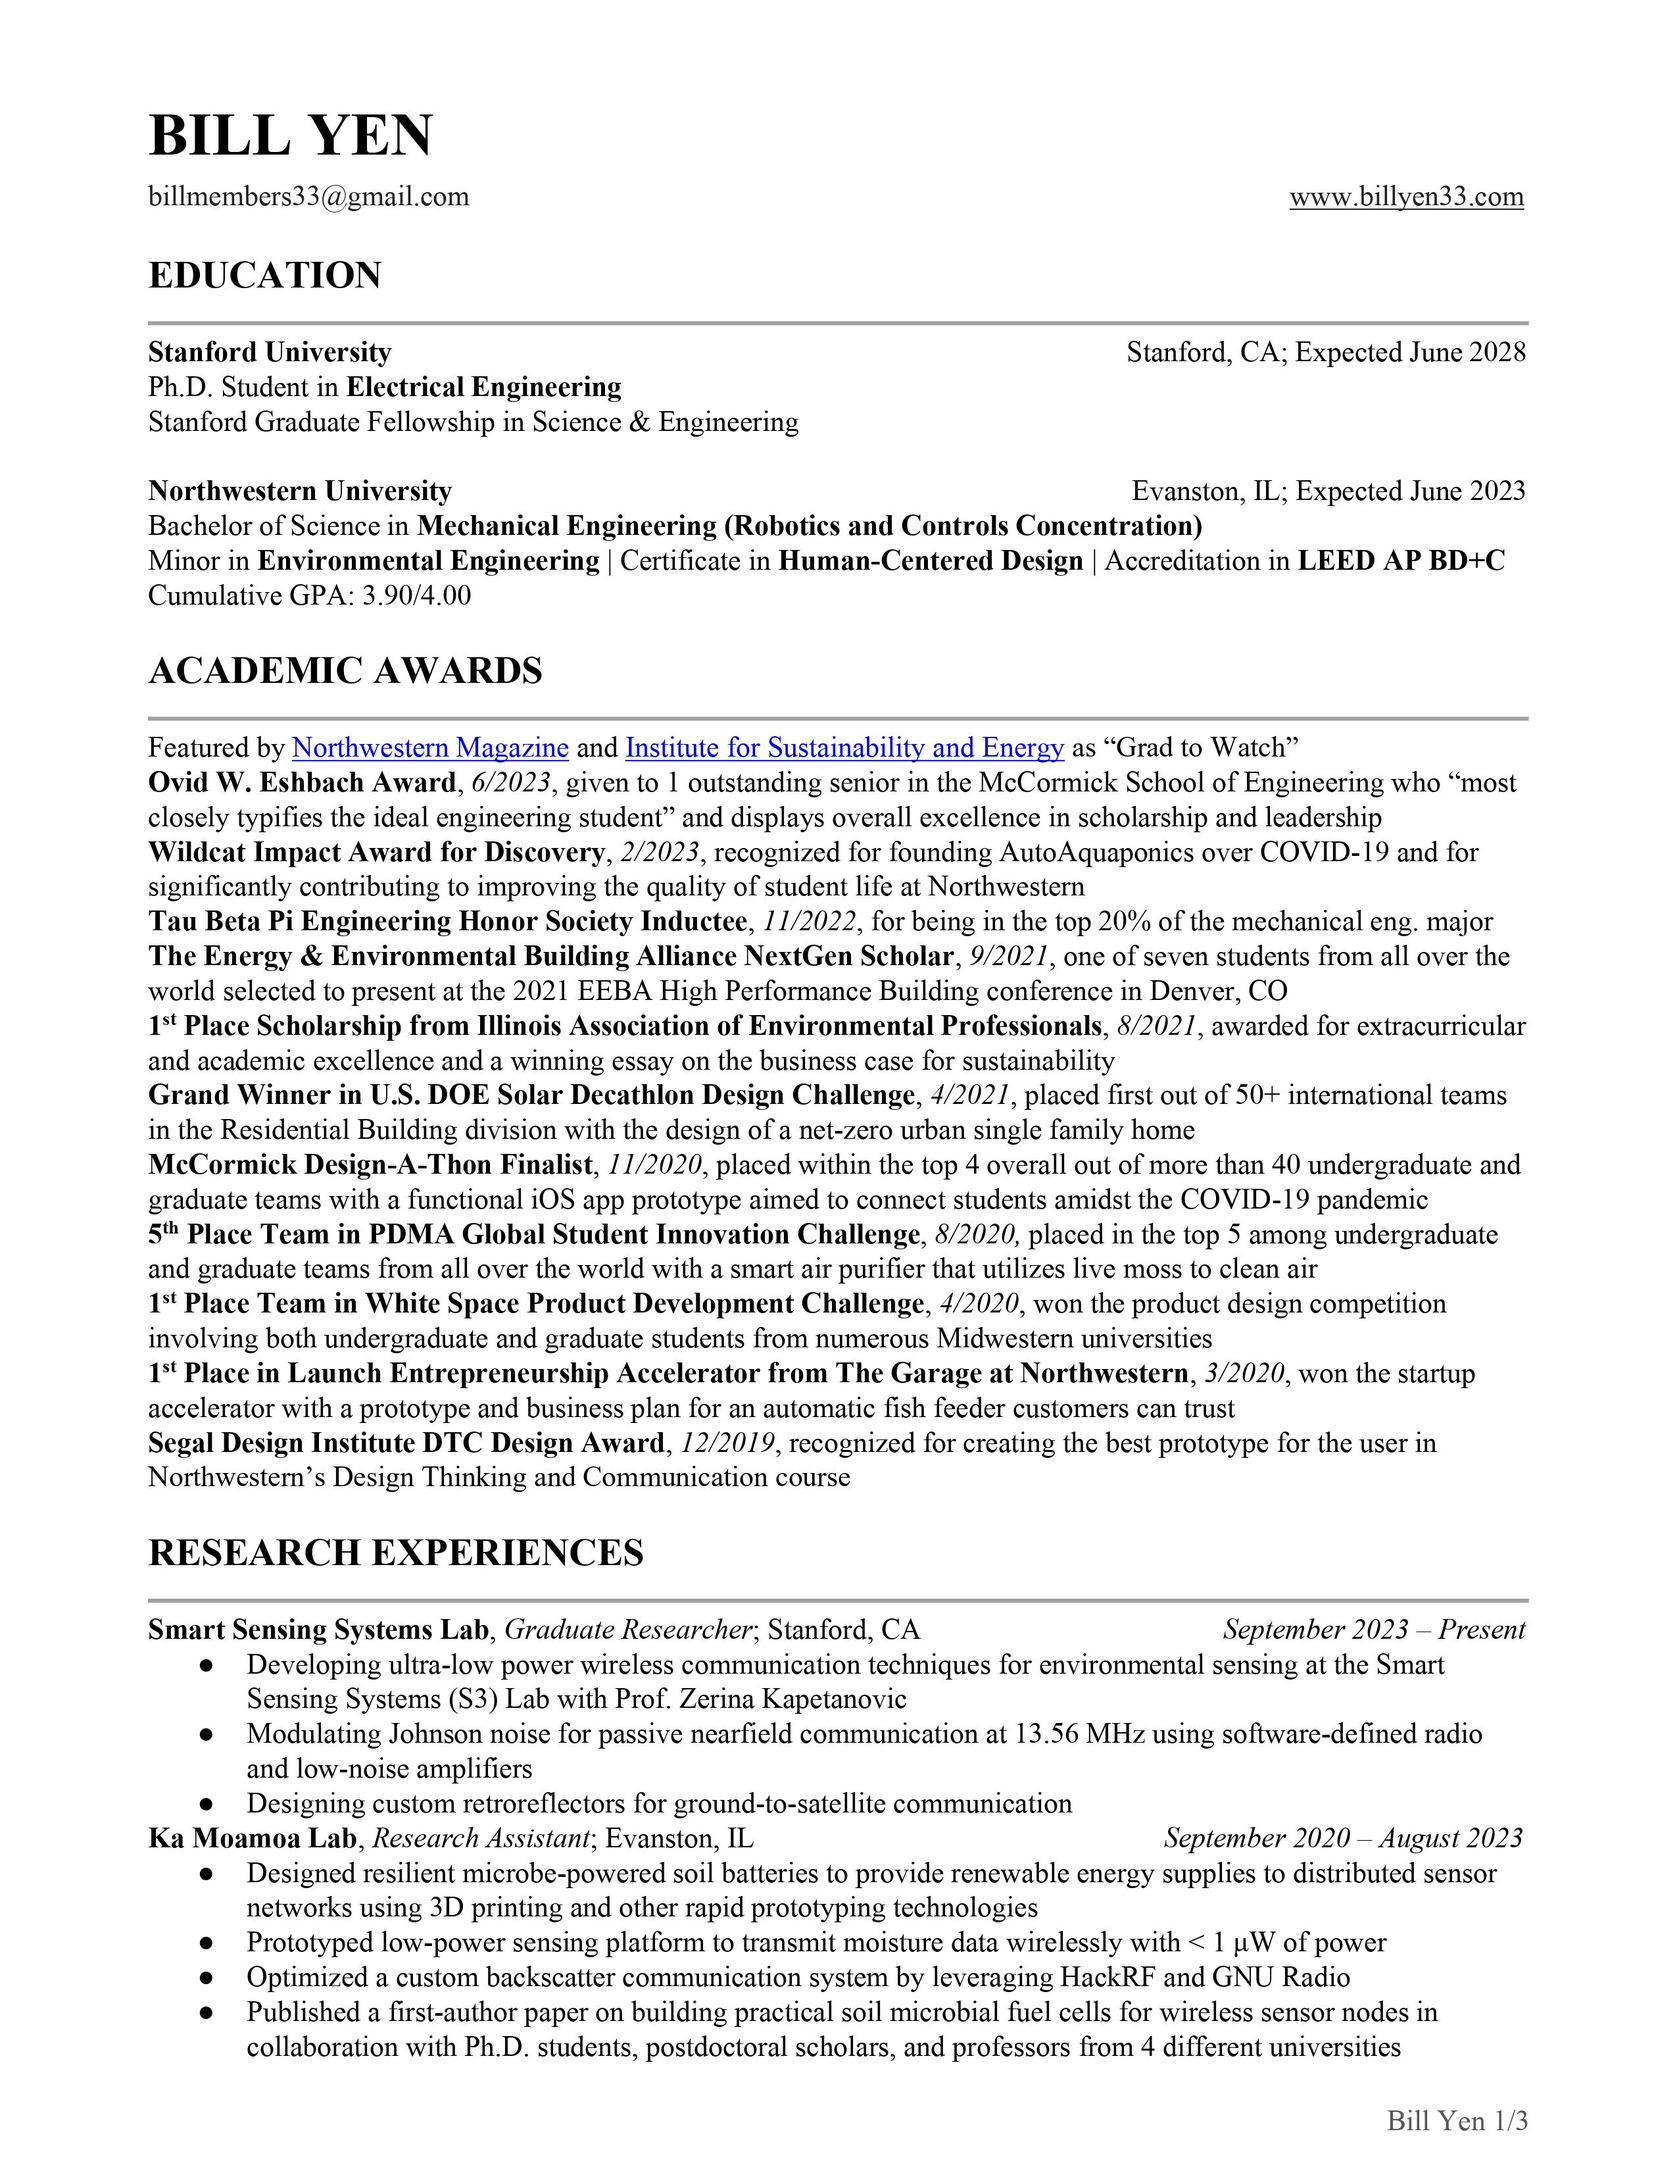
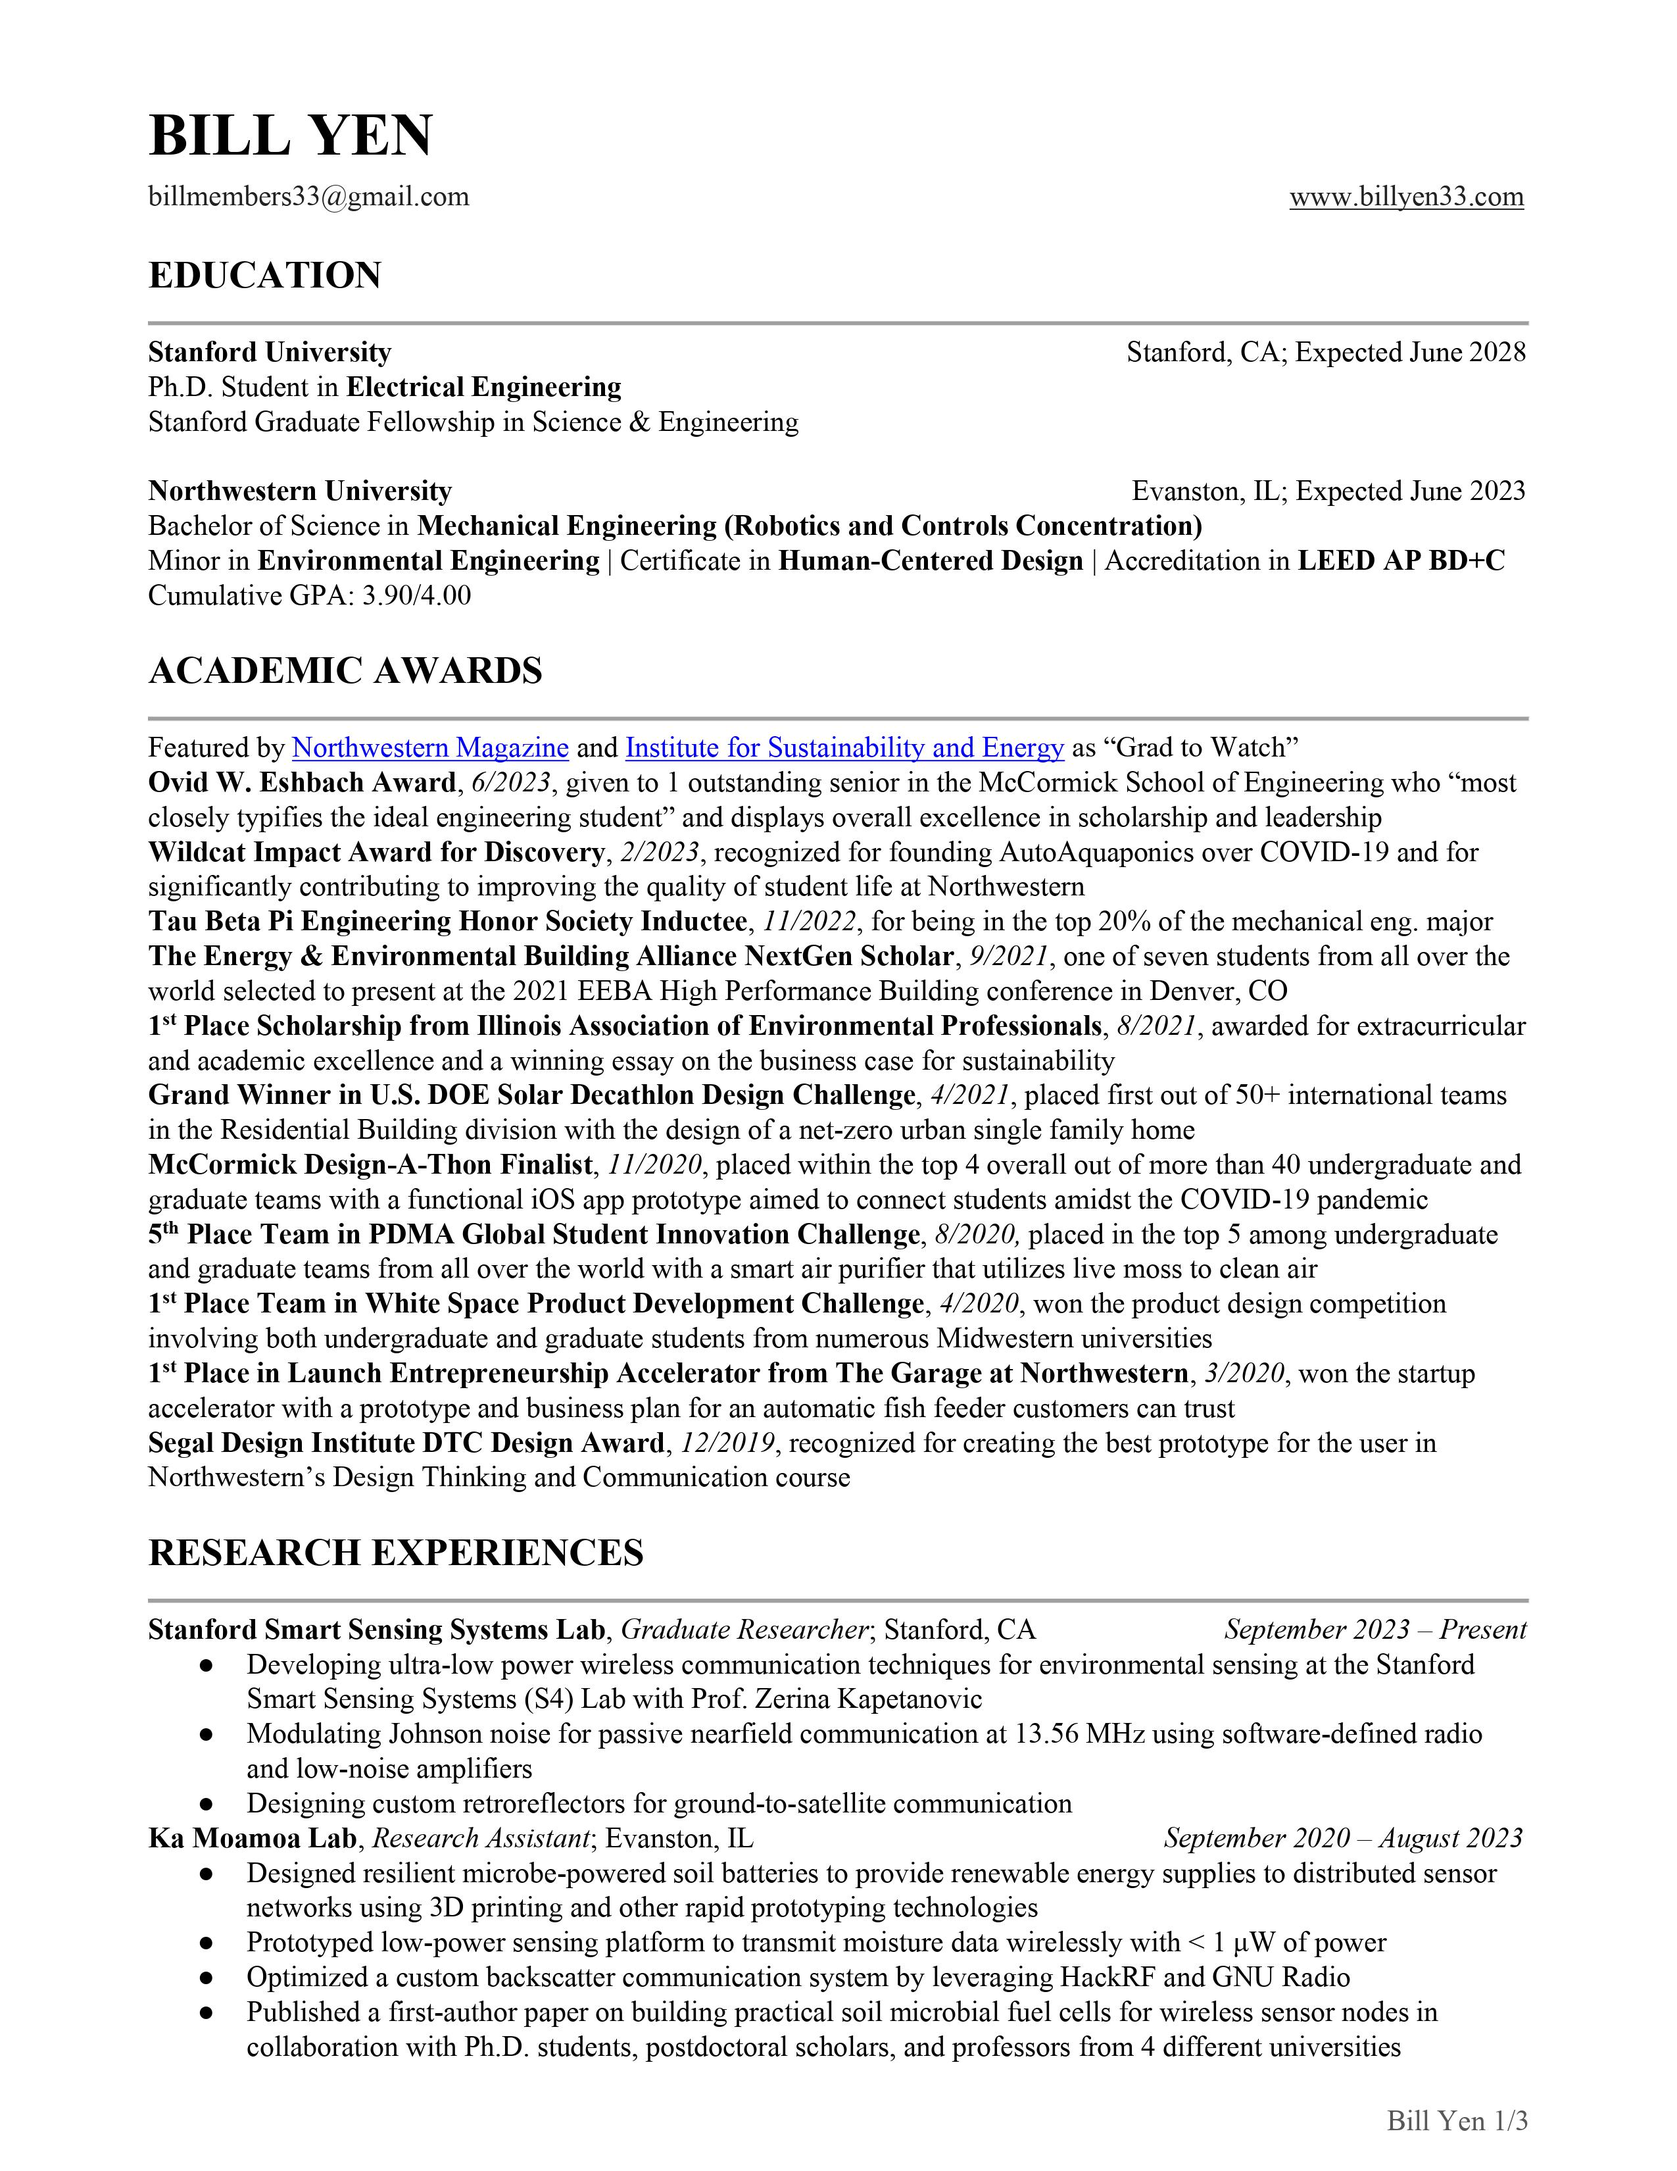
updated lab name

diff --git a/index.html b/index.html
@@ -96,7 +96,7 @@ https://templatemo.com/tm-531-reflux
             <div class="line-dec"></div>
             <span
               >
-              <h5>Electrical Engineering Ph.D. at <a href="https://profiles.stanford.edu/bill-yen?releaseVersion=10.5.2" target="_blank">Stanford</a> | Sustainable Internet of Things at <a href="https://kapetanovic.sites.stanford.edu/" target="_blank">S3 Lab</a></h5>
+              <h5>Electrical Engineering Ph.D. at <a href="https://profiles.stanford.edu/bill-yen?releaseVersion=10.5.2" target="_blank">Stanford</a> | Sustainable Internet of Things at <a href="https://kapetanovic.sites.stanford.edu/" target="_blank">S4 Lab</a></h5>
               <br>I am an <a href="https://ee.stanford.edu/" target="_blank">Electrical Engineering</a> Ph.D. student at Stanford University with a passion for
               building low-power sensing and wireless systems to address sustainability challenges in the natural and built environment. 
               I received my B.S. in <a href="https://www.mccormick.northwestern.edu/mechanical/" target="_blank">Mechanical Engineering</a> from <a href="https://www.northwestern.edu/" target="_blank">Northwestern University</a> with a 
